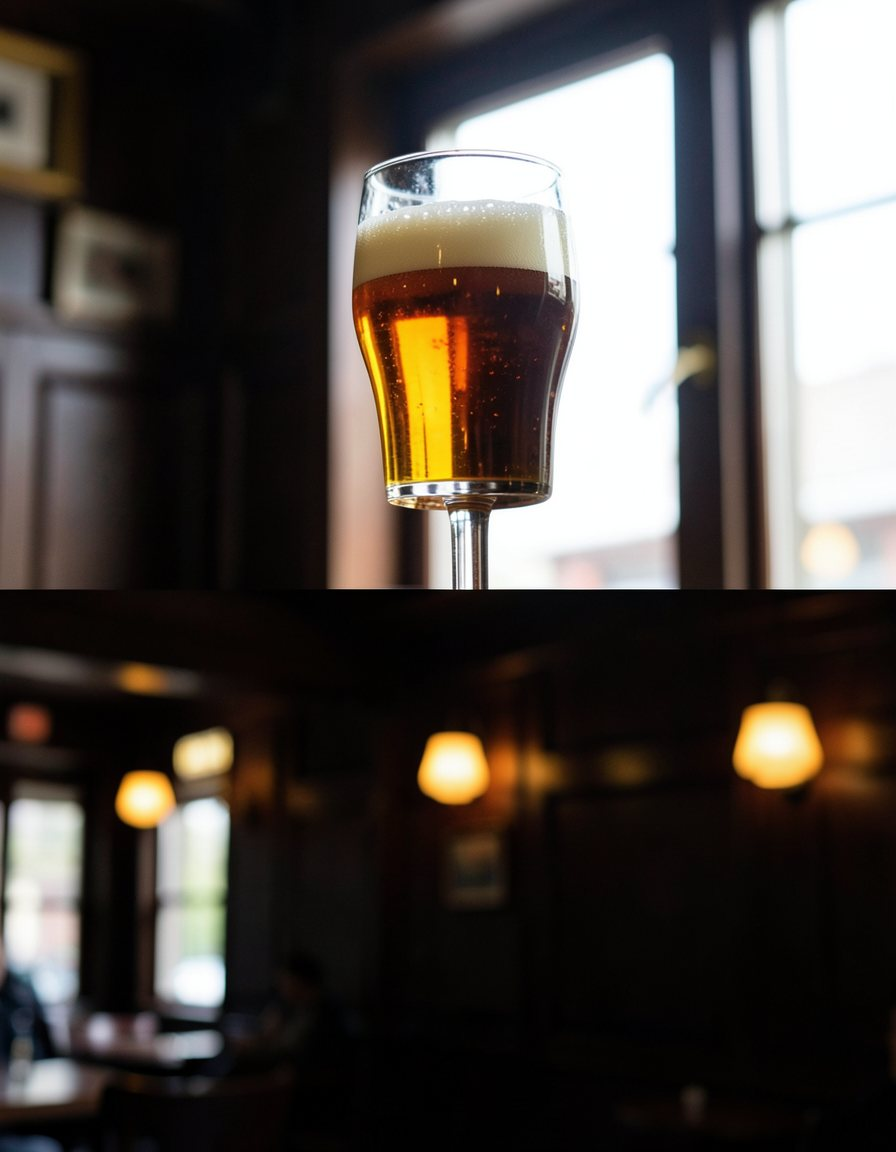
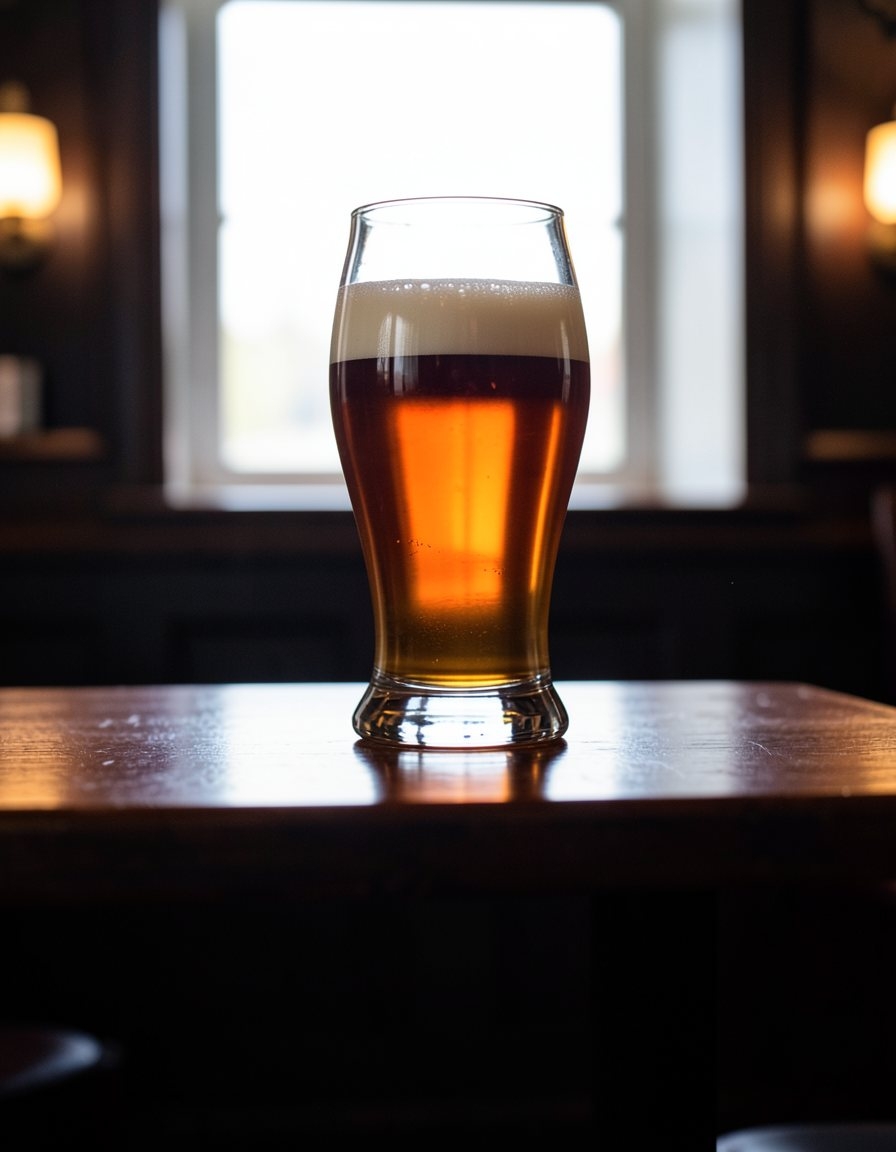
The beer was in a wine glass, and a metric will not see that
Reported by a person, after every check said the course was clean. Two of
chapter two's glasses were stemmed tulips on long thin stems — wine glasses,
in a course about beer — and both of those images were also cut off partway
down, one into a second exposure and one into a flat black band.

Both are now straight-sided pint glasses, because the shape has to be said
out loud AND the wrong shape ruled out: the model has no idea which glassware
belongs to which drink. Same lesson one field over — roasted barley that the
script calls black came out pale gold until the prompt said black three
different ways.

WHAT MATTERS MORE THAN THE TWO PICTURES: they got in because fourteen were
accepted on the strength of check-picture.py, and four of those were never
opened. The check measures one failure mode — a lower frame of blank paper —
and measures it well. Trusting it for everything else was the error.

Two metrics were tried for the cut and both are recorded as NOT working,
so the next person does not try them again. The sharpest full-width step in
a picture does not separate a stitched seam from a table edge: a good picture
scored 72 and the bad one 17. A flat dark band at the bottom does not
separate a cut-off image from a dark room: the cut-off one scored HIGHER than
seven perfectly good pictures. Shipping either would have been a check that
passes while measuring nothing, which this repo has four of already.
[…]

diff --git a/sw.js b/sw.js
@@ -15,7 +15,7 @@
 /* BEGIN GENERATED — tools/build-sw.py */
 // Written by tools/build-sw.py from the files index.html actually reaches,
 // plus each pack's runtime data. Do not edit by hand — run the tool.
-const VERSION = 'v2d5624074d';
+const VERSION = 'v6901215581';
 const APP_CACHE = `fortell-app-${VERSION}`;
 const TILE_CACHE = `fortell-tiles-${VERSION}`;
 const TILE_LIMIT = 400;

diff --git a/tools/contact-sheet.py b/tools/contact-sheet.py
@@ -1,0 +1,144 @@
+"""Every picture in a course on one sheet, cropped the way a phone shows them.
+
+    python tools/contact-sheet.py beer
+    python tools/contact-sheet.py beer --chapter chapter-2-overgjaer
+
+WHY THIS EXISTS. `tools/check-picture.py` measures one failure mode — a
+picture whose lower frame is blank paper — and it measures it well. It cannot
+see a beer served in a wine glass, or a picture that was cut off halfway down
+and filled with black. Both shipped, and both were reported by a person.
+
+That was not a gap in the checks. It was a gap in the process: fourteen
+pictures were accepted on the strength of a number, and four of them were
+never looked at. Two were wrong.
+
+The honest fix is not another metric. It was tried: the sharpest full-width
+step in a picture does not separate a stitched seam from a table edge (a good
+picture scored 72, a bad one 17), and a flat dark band at the bottom does not
+separate a cut-off image from a dark room (the cut-off one scored HIGHER than
+seven good pictures). Some things about a picture are only visible to
+somebody looking at it.
+
+So this makes looking cheap. One sheet, in reading order, cropped to the
+slice a phone actually shows, with the caption band marked — because a
+picture is judged inside that crop and not as the square file on disk.
+"""
+
+import argparse
+import io
+import json
+import os
+import sys
+
+try:
+    from PIL import Image, ImageDraw
+except ImportError:
+    raise SystemExit("needs pillow: .venv/Scripts/python.exe -m pip install pillow")
+
+sys.path.insert(0, os.path.dirname(os.path.abspath(__file__)))
+import scriptlib as S                                        # noqa: E402
+
+ROOT = S.ROOT
+CONTENT = S.CONTENT
+
+CELL_W = 190                       # wide enough to judge, narrow enough to fit
+COLS = 5
+PAD = 8
+LABEL_H = 16
+HOST_W, HOST_H = 390, 734          # the map host inside a 390x844 phone
+CAPTION_FRACTION = 0.22            # roughly what the caption box covers
+
+
+def visible_crop(im):
+    """The slice a phone shows under object-fit: cover — same maths as
+    tools/check-picture.py, and the same reason: judging the file rather than
+    the crop forgives a fault nobody sees and condemns one that is cut away."""
+    w, h = im.size
+    want, have = HOST_W / HOST_H, w / h
+    if have > want:
+        keep = int(h * want)
+        return im.crop(((w - keep) // 2, 0, (w - keep) // 2 + keep, h))
+    keep = int(w / want)
+    return im.crop((0, (h - keep) // 2, w, (h - keep) // 2 + keep))
+
+
+def order_for(pack, chapter_id=None):
+    """Picture ids in the order a viewer meets them, then anything unused."""
+    seen, out = set(), []
+    for f in sorted(os.listdir(os.path.join(CONTENT, pack))):
+        if not (f.startswith("chapter-") and f.endswith(".json")):
+            continue
+        if chapter_id and f[:-5] != chapter_id:
+            continue
+        ch = S.load_json(os.path.join(CONTENT, pack, f)) or {}
+        for scene in ch.get("scenes", []):
+            for beat in scene.get("beats", []):
+                for cue in beat.get("cues", []):
+                    if cue["do"] == "plate.show" and cue.get("id") not in seen:
+                        seen.add(cue["id"])
+                        out.append((cue["id"], f"{f[:-5].split('-')[1]} {scene['id']}"))
+    if chapter_id:
+        return out            # one chapter means that chapter, not the pack
+    media = S.load_json(os.path.join(CONTENT, pack, "media.json")) or {}
+    for mid in sorted(media):
+        if mid not in seen:
+            out.append((mid, "unused"))
+    return out
+
+
+def main(argv):
+    ap = argparse.ArgumentParser(description=__doc__)
+    ap.add_argument("pack")
+    ap.add_argument("--chapter", default=None)
+    ap.add_argument("--cols", type=int, default=COLS)
+    args = ap.parse_args(argv)
+
+    media = S.load_json(os.path.join(CONTENT, args.pack, "media.json")) or {}
+    items = order_for(args.pack, args.chapter)
+    cells = []
+    for mid, where in items:
+        spec = media.get(mid) or {}
+        f = spec.get("file") or spec.get("src")
+        if not f:
+            continue
+        path = os.path.join(CONTENT, args.pack,
+                            f if "/" in f or os.sep in f else os.path.join("media", f))
+        if not os.path.exists(path):
+            continue
+        cells.append((mid, where, path))
+    if not cells:
+        raise SystemExit(f"no pictures found for {args.pack}")
+
+    cell_h = int(CELL_W * HOST_H / HOST_W)
+    cols = max(1, args.cols)
+    rows = (len(cells) + cols - 1) // cols
+    W = cols * (CELL_W + PAD) + PAD
+    H = rows * (cell_h + LABEL_H + PAD) + PAD
+    sheet = Image.new("RGB", (W, H), (24, 22, 19))
+    draw = ImageDraw.Draw(sheet)
+
+    for i, (mid, where, path) in enumerate(cells):
+        c, r = i % cols, i // cols
+        x = PAD + c * (CELL_W + PAD)
+        y = PAD + r * (cell_h + LABEL_H + PAD)
+        im = visible_crop(Image.open(path).convert("RGB")).resize(
+            (CELL_W, cell_h), Image.LANCZOS)
+        sheet.paste(im, (x, y))
+        # Where the caption sits. A picture is judged with the words on it.
+        band = int(cell_h * (1 - CAPTION_FRACTION))
+        draw.line([(x, y + band), (x + CELL_W, y + band)], fill=(220, 190, 120), width=1)
+        draw.text((x + 2, y + cell_h + 2), f"{mid}  ({where})", fill=(214, 208, 196))
+
+    out = os.path.join(ROOT, "shots", "contact")
+    os.makedirs(out, exist_ok=True)
+    name = f"{args.pack}{'-' + args.chapter if args.chapter else ''}.png"
+    dest = os.path.join(out, name)
+    sheet.save(dest)
+    print(f"{len(cells)} pictures, in the order a viewer meets them")
+    print(f"  the gold line is where the caption starts")
+    print(f"  -> {dest}")
+    return 0
+
+
+if __name__ == "__main__":
+    sys.exit(main(sys.argv[1:]))

diff --git a/CLAUDE.md b/CLAUDE.md
@@ -424,6 +424,32 @@ glyph ever appeared — and `check-script.py` passed it clean, because it only e
 *names*. It now rejects undeclared arguments and validates enum values. The lesson generalises:
 the manifest is the contract, and anything not in it is decoration.
 
+**A metric that measures one failure mode will be trusted for all of them,
+and a picture nobody looked at is a picture nobody checked.** Fourteen
+pictures were accepted on the strength of `check-picture.py` alone; four were
+never opened, and two of those were wrong — a beer served in a stemmed wine
+glass, and an image cut off halfway down and filled with black. Both were
+reported by a person, twice, after the checks said the course was clean.
+
+Two metrics were tried for the cut and neither works, which is worth knowing
+before trying them again: **the sharpest full-width step** does not separate a
+stitched seam from a table edge (a good picture scored 72, the bad one 17),
+and **a flat dark band at the bottom** does not separate a cut-off image from
+a dark room (the cut-off one scored HIGHER than seven good pictures). Some
+things about a picture are only visible to somebody looking at it.
+
+So the fix is not another check. `tools/contact-sheet.py` puts every picture
+of a chapter on one sheet, in the order a viewer meets them, cropped to the
+slice a phone shows, with a line where the caption starts. Looking at all
+fifteen is one action, and it immediately found a third fault the checks
+cannot see: roasted barley that the script calls black coming out pale gold.
+
+**And name the thing in the prompt, including what it is not.** The model has
+no idea which glassware belongs to which drink: "a glass of ale" gives a
+stemmed tulip. "A straight-sided English pint glass, no stem and no foot, not
+a wine glass" gives a pint. Same for colour — "roasted, almost black" gave
+gold until the prompt said black three different ways.
+
 **A generated candidate outlives the prompt that made it, and `--accept` counted the
 folder.** Candidates are named `01-seed100.png` and every render starts at `01`, so a second
 render of the same picture left ten files in one directory and sorted order interleaved them:
